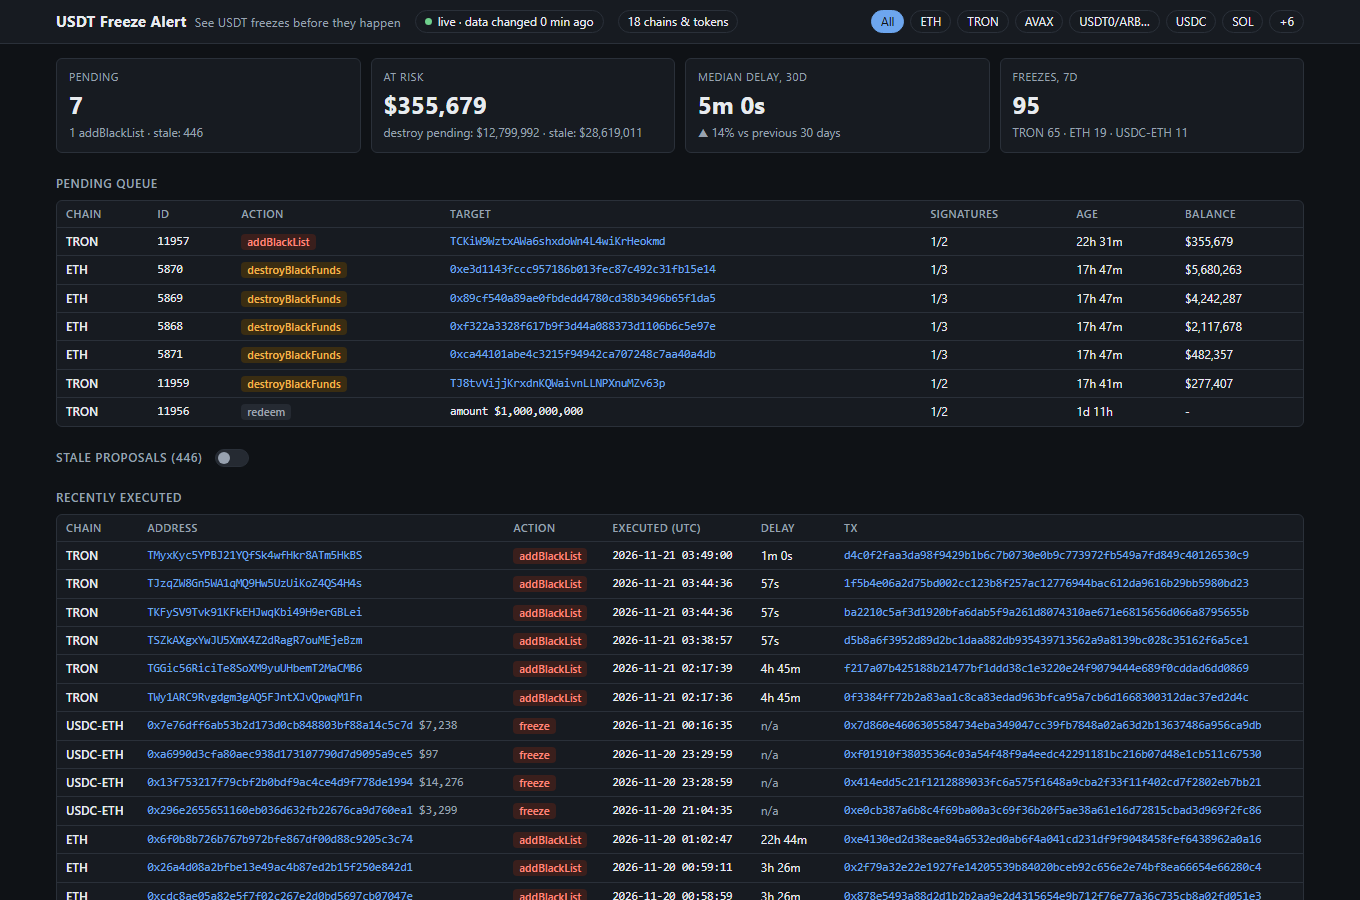
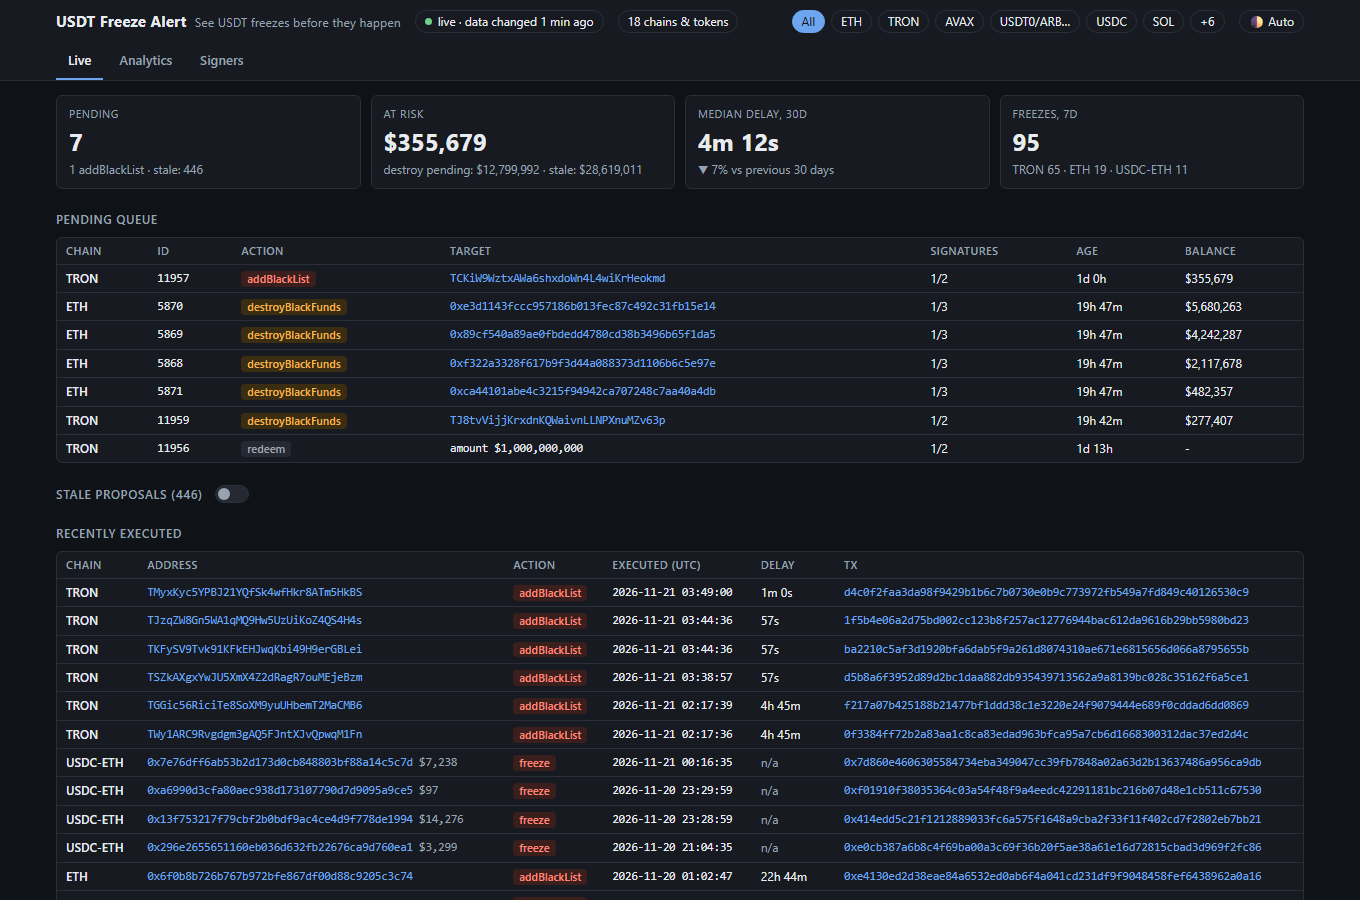
docs: analytics screenshots

diff --git a/README.md b/README.md
@@ -55,7 +55,7 @@ The **Analytics** tab (period 30d / 90d / 12m / all, token filter) answers "how 
 
 - **Frozen $**: burned amount if the address was later destroyed, otherwise its current balance (frozen funds cannot move).
 - **Burned $**: exact amount of the `DestroyedBlackFunds` / `DestroyedBlockedFunds` event.
-- **Sent after freeze**: transfers to an address *while it was blacklisted* (ETH, USDC, Celo, Avalanche, TRON), with the part **later burned**. Broader than "sent to a blacklisted address and burned at the next destroy" (e.g. BitOK's count), because we count every inflow during the frozen interval. The zero address and token contracts, which Tether blacklists to burn mistaken sends, are excluded.
+- **Sent after freeze**: transfers to an address *while it was blacklisted* (ETH, USDC, Celo, Avalanche, TRON), with the part **later burned**. Broader than "sent to a blacklisted address and burned at the next destroy" (e.g. BitOK's count), because we count every inflow during the frozen interval. The zero address and token contracts, which Tether blacklists to burn mistaken sends, are excluded. (USDC rejects transfers to blacklisted addresses, so it shows none.)
 - **Unfrozen**: count, and $ only where a balance was observed while frozen.
 - Balances are filled gradually (`ANALYTICS_BUDGET_SEC` per run); the page shows "balances checked N of M" until complete. Reissue to victims happens off-chain / through treasury transfers and is not tracked.
 
